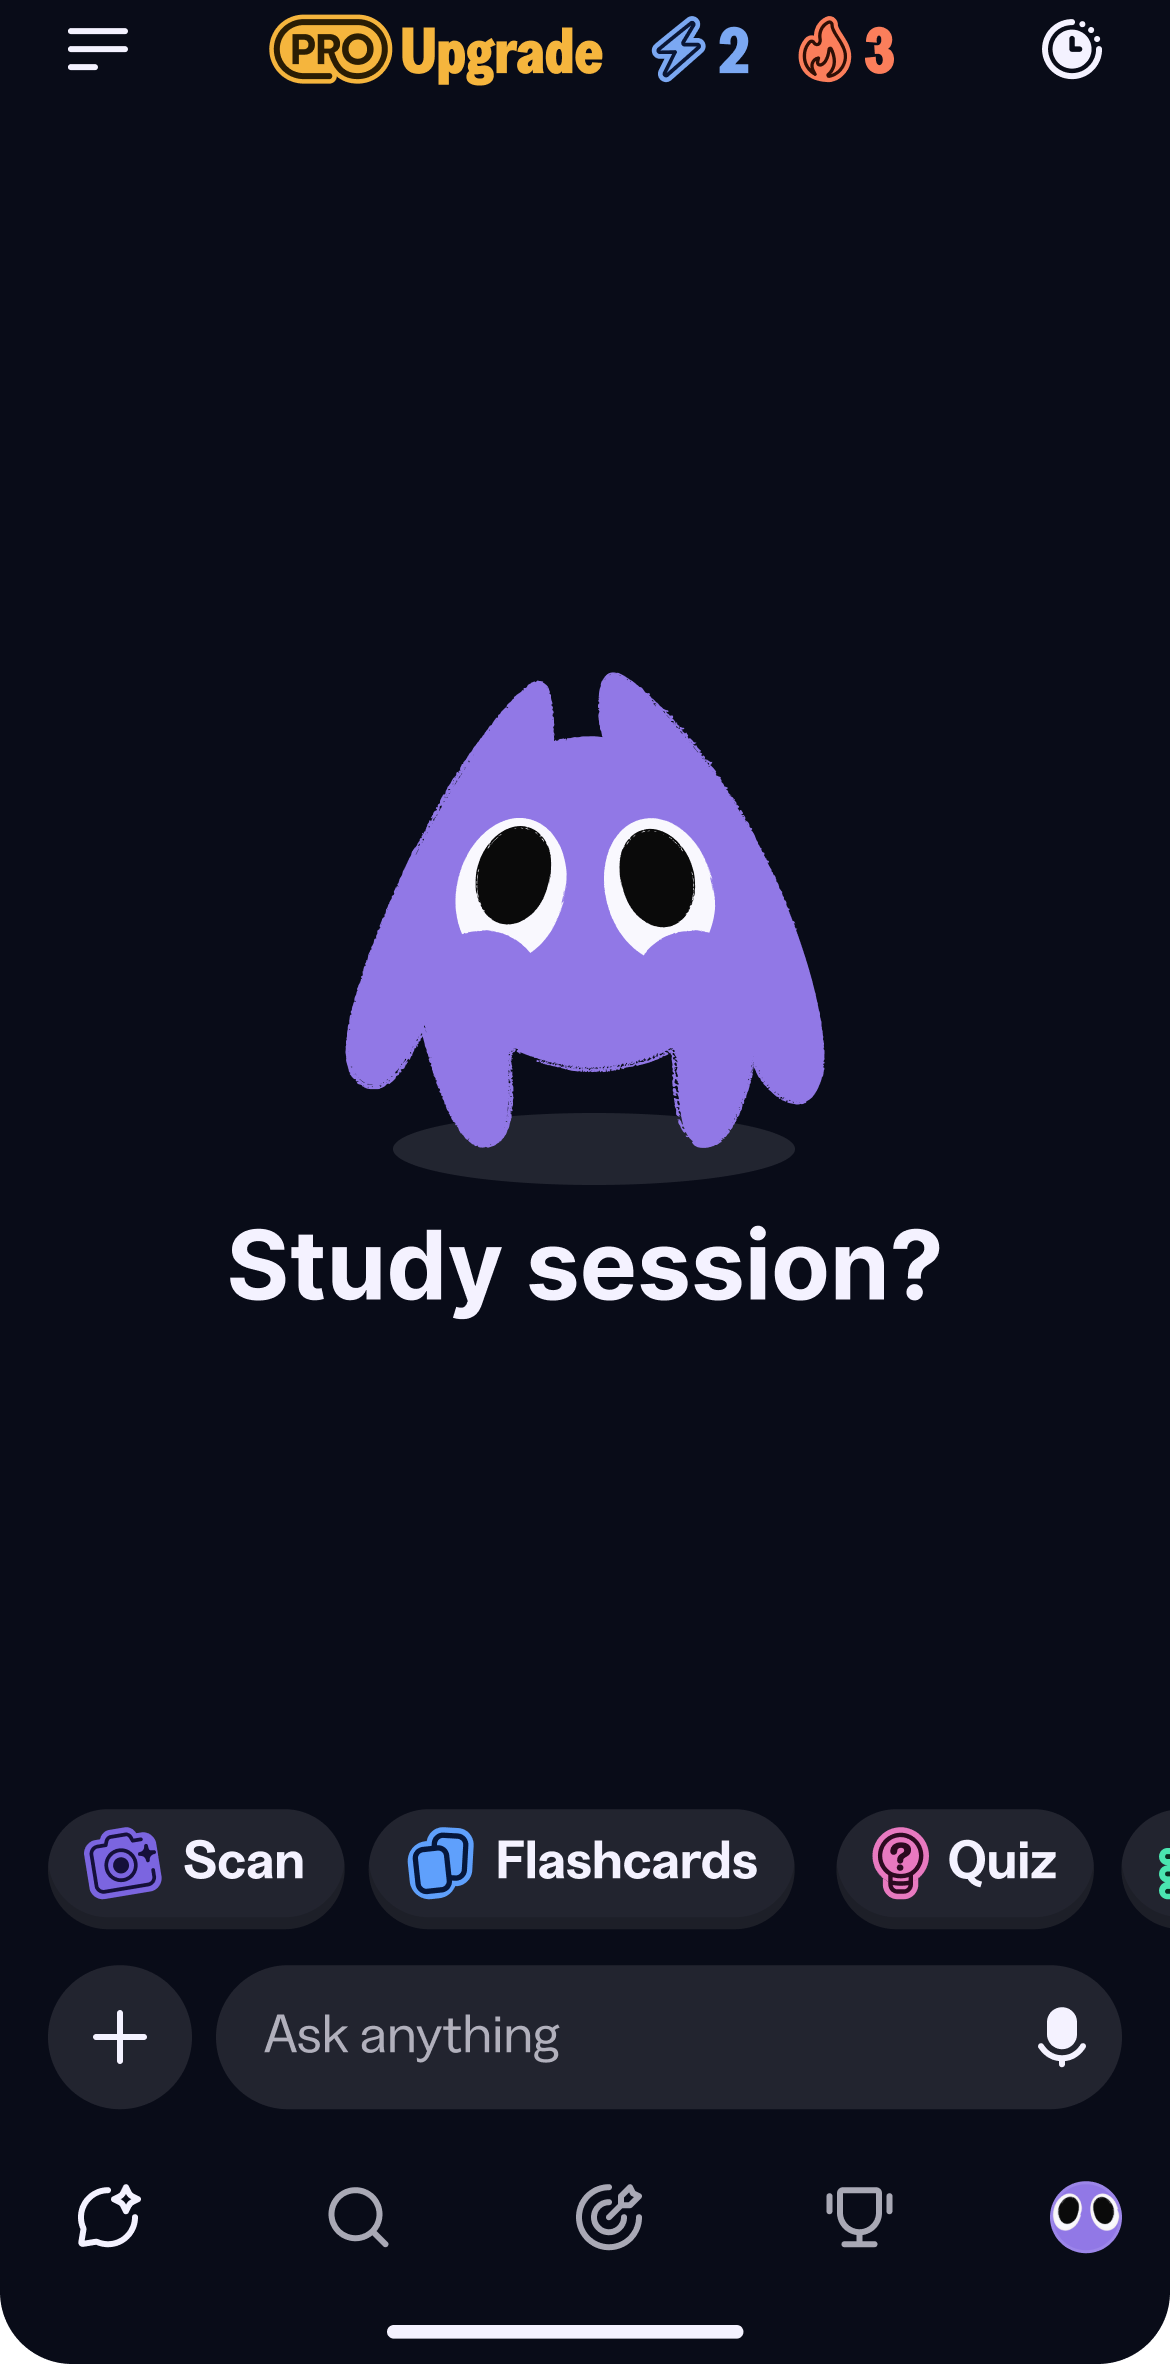
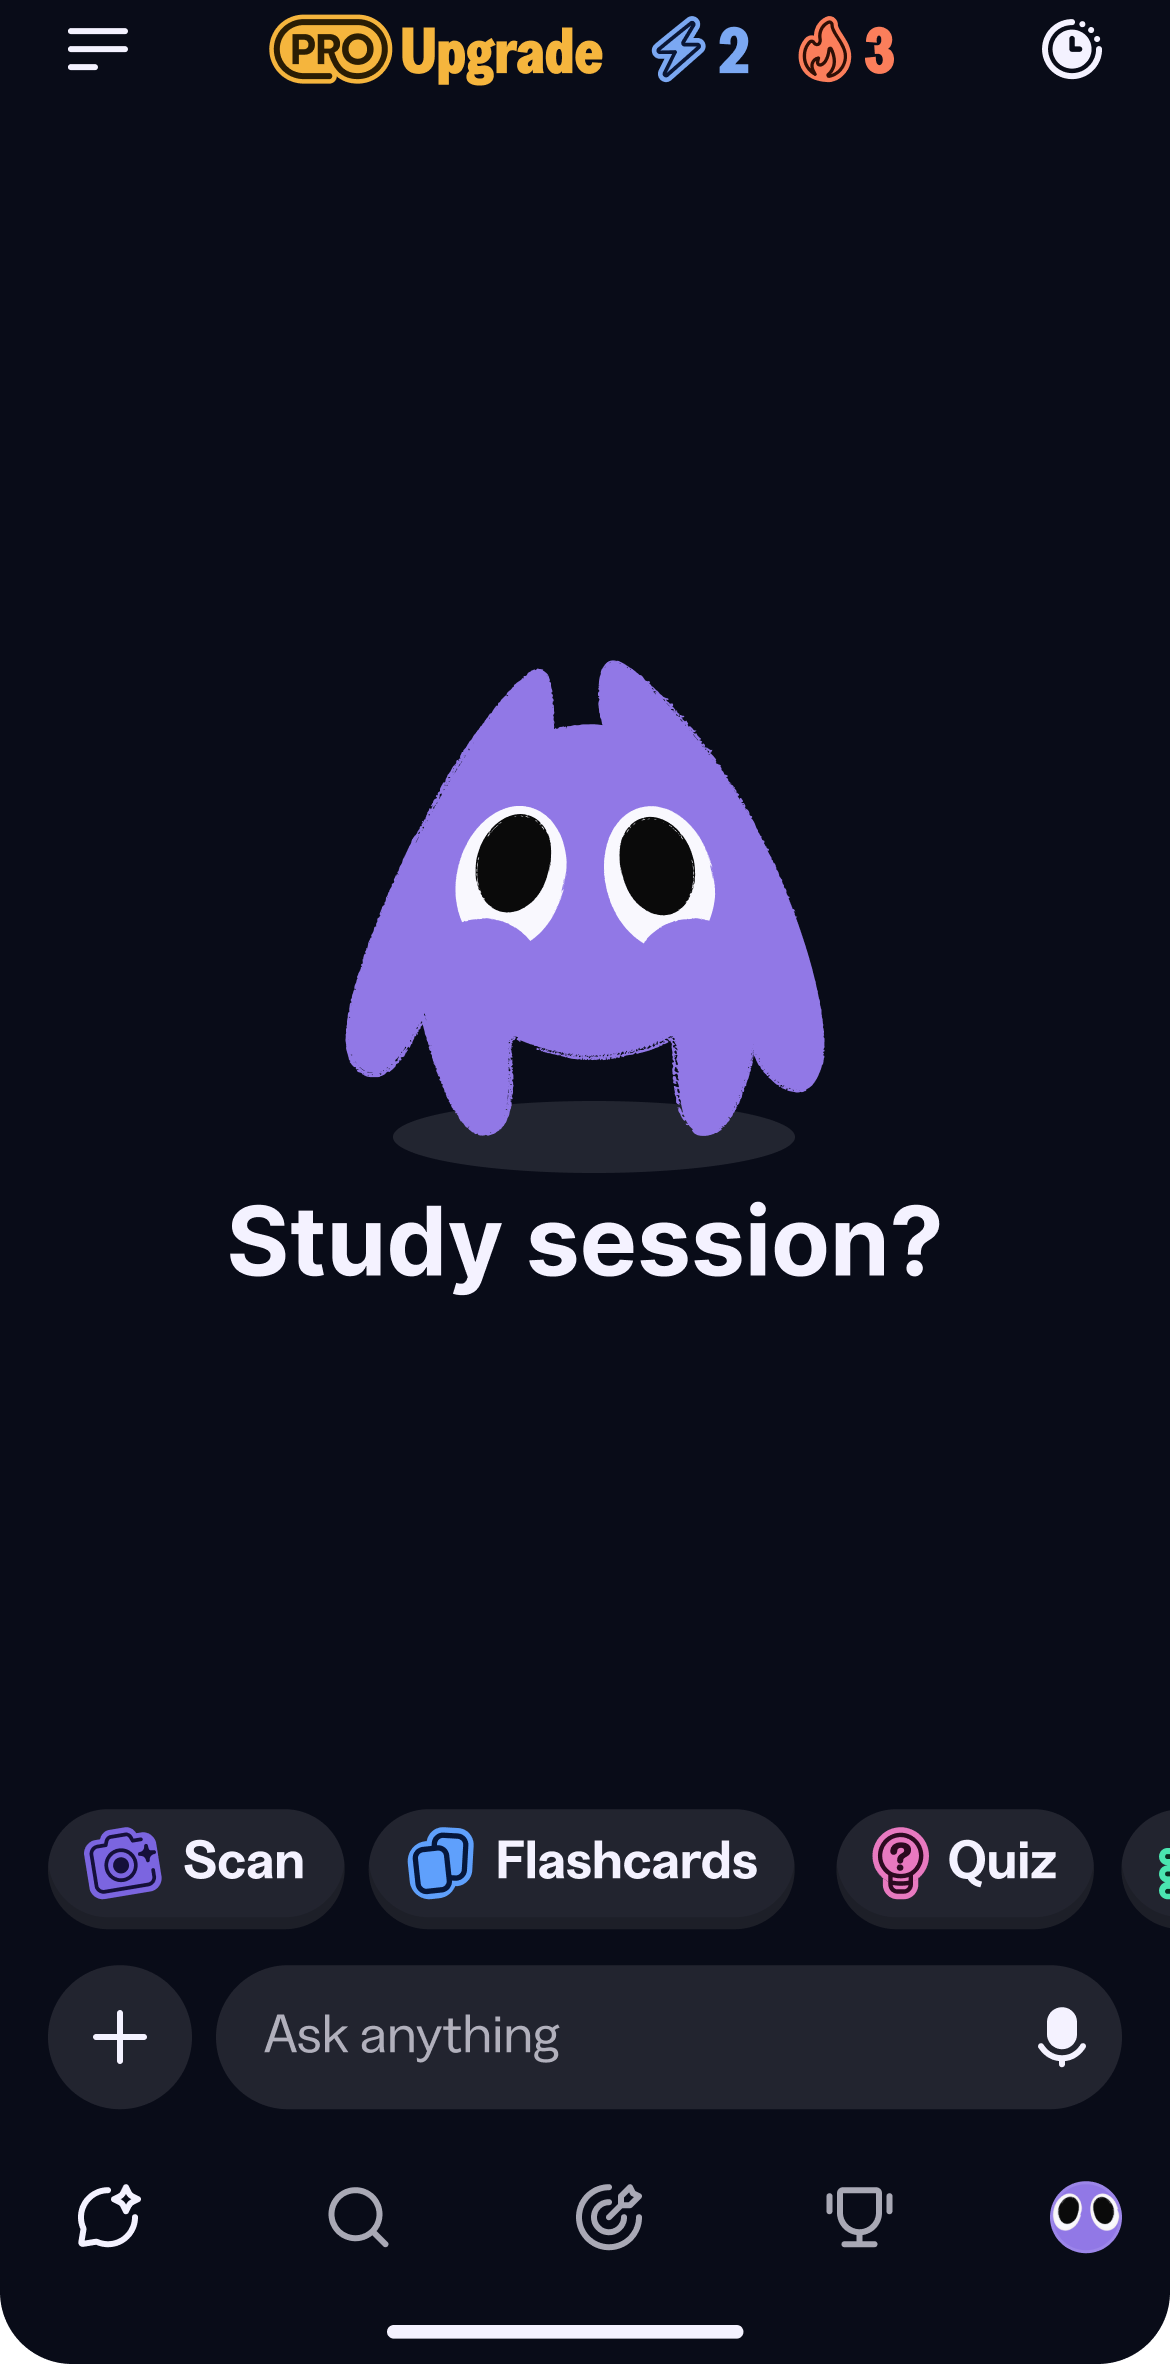
Realign the exam-tab badge and hint-arrow after the status-bar crop, fix a safe-area positioning bug, and tighten Knowie's spacing
The badge and hint-arrow overlays were still positioned against the old
844pt frame from before the status-bar crop, so both landed 56pt off.
Also fixes a real bug the crop introduced: FrameImage's overlays were
absolutely positioned against .frame directly, but padding-top doesn't
shift an absolutely-positioned child's containing block, so on a real
phone (nonzero safe-area inset) the image would shift down without the
badge/arrow/tap-zones following — invisible in Storybook, where the
inset is 0. Fixed by nesting them in a new .content wrapper that starts
where the image actually starts.

Also tightens the gap above and below Knowie on 00Homescreen by 4pt
each, as a lossless raster edit (Figma Desktop Bridge wasn't connected
this session) — verified byte-identical below the edited region.

diff --git a/app/_prototype/FrameImage.tsx b/app/_prototype/FrameImage.tsx
@@ -43,36 +43,49 @@ export function FrameImage({ frame, onZone, hidden, children }: FrameImageProps)
 
   return (
     <div className={styles.frame} hidden={hidden} data-frame={frame.id}>
-      {/* Served as exported (3×): recompressing would blur the UI text. */}
-      <Image
-        className={styles.image}
-        src={frame.src}
-        alt={frame.alt}
-        width={FRAME_SIZE.width}
-        height={FRAME_SIZE.height}
-        loading="eager"
-        unoptimized
-      />
-      {frame.zones.map((zone) => {
-        const [x, y, w, h] = zone.box;
-        return (
-          <button
-            key={zone.id}
-            type="button"
-            className={styles.zone}
-            aria-label={zone.label}
-            data-zone={zone.id}
-            style={{
-              left: `${(x / FRAME_SIZE.width) * 100}%`,
-              top: `${(y / FRAME_SIZE.height) * 100}%`,
-              width: `${(w / FRAME_SIZE.width) * 100}%`,
-              height: `${(h / FRAME_SIZE.height) * 100}%`,
-            }}
-            onClick={(event) => handleTap(zone.id, zone.taps ?? 1, event.timeStamp)}
-          />
-        );
-      })}
-      {children}
+      {/* The positioned ancestor for the image, tap zones and any overlay
+          (badge/arrow) children — deliberately not `.frame` itself. A CSS
+          `position: absolute` child's containing block is its ancestor's
+          padding edge, which sits at the ancestor's border-box top regardless
+          of how much padding-top that ancestor has — so if these children
+          were positioned against `.frame` directly, `.frame`'s own
+          safe-area padding-top (below) would shift the image down without
+          shifting them, misaligning both by the safe-area inset on a real
+          phone (invisible in Storybook, where the inset is 0). Nesting them
+          in their own wrapper that starts right where the image starts
+          keeps every image-relative coordinate correct in both places. */}
+      <div className={styles.content}>
+        {/* Served as exported (3×): recompressing would blur the UI text. */}
+        <Image
+          className={styles.image}
+          src={frame.src}
+          alt={frame.alt}
+          width={FRAME_SIZE.width}
+          height={FRAME_SIZE.height}
+          loading="eager"
+          unoptimized
+        />
+        {frame.zones.map((zone) => {
+          const [x, y, w, h] = zone.box;
+          return (
+            <button
+              key={zone.id}
+              type="button"
+              className={styles.zone}
+              aria-label={zone.label}
+              data-zone={zone.id}
+              style={{
+                left: `${(x / FRAME_SIZE.width) * 100}%`,
+                top: `${(y / FRAME_SIZE.height) * 100}%`,
+                width: `${(w / FRAME_SIZE.width) * 100}%`,
+                height: `${(h / FRAME_SIZE.height) * 100}%`,
+              }}
+              onClick={(event) => handleTap(zone.id, zone.taps ?? 1, event.timeStamp)}
+            />
+          );
+        })}
+        {children}
+      </div>
     </div>
   );
 }

diff --git a/app/screens/ExamPlanScreen.module.css b/app/screens/ExamPlanScreen.module.css
@@ -26,6 +26,11 @@
  * than a raw px; the cubic-beziers and every animation timing below have no
  * motion token in this system, same gap already flagged for the loop's
  * Processing bob and Option A's build before it.
+ *
+ * The matrix's ty (translate y) is 56px less than Figma's own relativeTransform
+ * gives (91.978, not 147.978) — 2026-09-16's status-bar crop shortened the
+ * 390×844 frame this was positioned against to 390×788, the same 56pt every
+ * zone in frames.ts shifted by. tx is untouched: the crop was vertical only.
  */
 
 .arrowBox {
@@ -34,7 +39,7 @@
   top: 0;
   width: 113px;
   height: 117px;
-  transform: matrix(0.8242865800857544, -0.5661728382110596, 0.5661728382110596, 0.8242865800857544, 172, 147.97752380371094);
+  transform: matrix(0.8242865800857544, -0.5661728382110596, 0.5661728382110596, 0.8242865800857544, 172, 91.97752380371094);
   transform-origin: 0 0;
   pointer-events: none;
 }
@@ -128,11 +133,16 @@
  * point space, read off Figma) — a small negative offset from the literal
  * Figma badge position, perched right on the corner the way a notification
  * badge usually sits, half on the icon and half off it.
+ *
+ * top is 56px less than that derivation gives (715.57, not 771.57) —
+ * 2026-09-16's status-bar crop shortened the 390×844 frame this was measured
+ * against to 390×788, the same 56pt every zone in frames.ts shifted by.
+ * left is untouched: the crop was vertical only.
  */
 .badge {
   position: absolute;
   left: 219.5px;
-  top: 771.57px;
+  top: 715.57px;
   width: 7px;
   height: 7px;
   pointer-events: none;

diff --git a/app/_prototype/FrameImage.module.css b/app/_prototype/FrameImage.module.css
@@ -2,12 +2,23 @@
    status bar strip is cropped off (see frames.ts's doc comment) — on a real
    phone it doubled the real one, the same bug Screen's showStatusBar=false
    fixed. Padded by the safe-area inset instead, exactly like Screen, so the
-   real iOS status bar shows in that space; resolves to 0 in Storybook. */
+   real iOS status bar shows in that space; resolves to 0 in Storybook.
+   Not `position: relative` any more — see .content below for why the
+   positioned ancestor moved. */
 .frame {
-  position: relative;
   width: 100%;
   padding-top: env(safe-area-inset-top);
   background: var(--color-background-page);
+}
+
+/* The positioned ancestor for the image, tap zones and overlay children —
+   see FrameImage.tsx's doc comment for why this can't be `.frame` itself.
+   Has no size of its own beyond what `.image` gives it (block, width 100%,
+   height auto), so it's exactly the image's box — every child's px/percent
+   coordinate stays a correct image-relative value in Storybook and on a
+   real phone alike. */
+.content {
+  position: relative;
 }
 
 .image {

diff --git a/sprint-context.md b/sprint-context.md
@@ -515,6 +515,14 @@ Exam plan path screen. A "Voice recall" toggle pill sits at top; when on, topic 
 - Every other zone (Exam tab, Show me, both voice-recall nodes) was a straight shift — its element sat well clear of the old status bar, so `y - 56` was exact, not re-measured.
 - `ExamPlanScreen.tsx` and `ExamPlanScreen.stories.tsx`'s description updated to match; `design-system.md`'s `iPhone 13` size note is untouched — that's Figma's own component axis (390×844), not this crop. `component-gaps.md` untouched too, since this was a bug fix to existing prototype scaffolding, not a new inline-built gap.
 
+- 2026-09-16: **Two follow-on bugs from the status-bar crop above, both caught by you.** (1) The exam-tab badge's `.badge { top: 771.57px }` and the hint-arrow's `.arrowBox` matrix `ty` (`ExamPlanScreen.module.css`) are absolute overlay coordinates measured against the old 844pt frame, same as every zone in `frames.ts` — but they live in a different file, so the crop's blanket `y - 56` pass never touched them, leaving both misaligned by 56pt. Fixed the same way: `.badge`'s `top` is now `715.57px`, `.arrowBox`'s `ty` is now `91.97752380371094`. Verified the badge lands back on the exam-tab icon's real corner by cropping the actual updated export at the computed target and comparing by eye.
+- (2) **A real bug in the crop fix itself, not just stale numbers:** `FrameImage.module.css`'s `.frame` picked up `padding-top: env(safe-area-inset-top)` so the real status bar has room, matching `Screen`. But `Screen` only ever positions flex/normal-flow children off its own padded box; `FrameImage` positions the badge, the arrow, and every invisible tap-zone button with `position: absolute` directly against `.frame`. CSS anchors an absolutely-positioned child to its containing block's *padding edge*, which sits at the border-box top regardless of the padding *value* — so on a real phone (nonzero inset) the image would shift down by the inset while the badge/arrow/zones stayed put, unnoticed in Storybook where the inset resolves to 0. Fixed by moving the image, the zone buttons, and `children` into a new inner `.content` wrapper (`position: relative`, sized only by the image) nested inside `.frame`; `.frame` keeps the safe-area padding, `.content` is the actual positioned ancestor for every image-relative coordinate, so it now starts exactly where the image starts in both places.
+- `npx tsc --noEmit`, `npm run lint`, `npx vitest run --project=storybook` (154/154), and `npm run check:tokens` all clean after both fixes.
+
+- 2026-09-16: **00Homescreen's Knowie greeting, your instruction: tighten the gap above Knowie (header row → Knowie's ears) and the gap below it (its shadow → "Study session?") by 4pt (12px of the 3× export) each.** Knowie is baked into `public/frames/00-homescreen.png`, not a live component, and Figma Desktop Bridge wasn't connected this session (`figma_get_status` found no active plugin), so this was a direct raster edit rather than a Figma re-export — your call, given the alternative was asking you to open the plugin first.
+- **Done losslessly, not by eye:** measured the export's real row boundaries first (header content ends y=86, Knowie+shadow spans 672–1185, "Study session?" spans 1225–1320, all in 3× px, via a colour-distance scan down full-width rows). Removed a 12px slice from each of the two now-confirmed-blank gaps (86–672 and 1185–1225 — both flat `rgb(9,12,24)`, so removing rows from either is pixel-lossless) which pulls Knowie and the greeting up 12px/24px respectively, then reinserted the same 24px as flat background into the next gap down (1320–1809, 489px of blank space before the Scan/Flashcards/Quiz row) so the total image height, and every pixel from y=1809 (the button row) onward, stays byte-identical to before — confirmed with a diff against the pre-edit export (`getbbox()` on the cropped region returned `None`). This means the exam-tab icon, the badge position fixed above, the tab bar, and the home indicator needed no changes at all.
+- No code changes: `frames.ts`'s zone boxes and `ExamPlanScreen.module.css`'s `.badge`/`.arrowBox` positions are all below or unrelated to the edited region. `npx vitest run --project=storybook` (154/154) re-run clean after the image swap, since no test asserts pixel content.
+
 ## Not building
 - Auto-endpointing or continuous listening
 - Tutoring or open conversation branch if the student asks Knowie something
